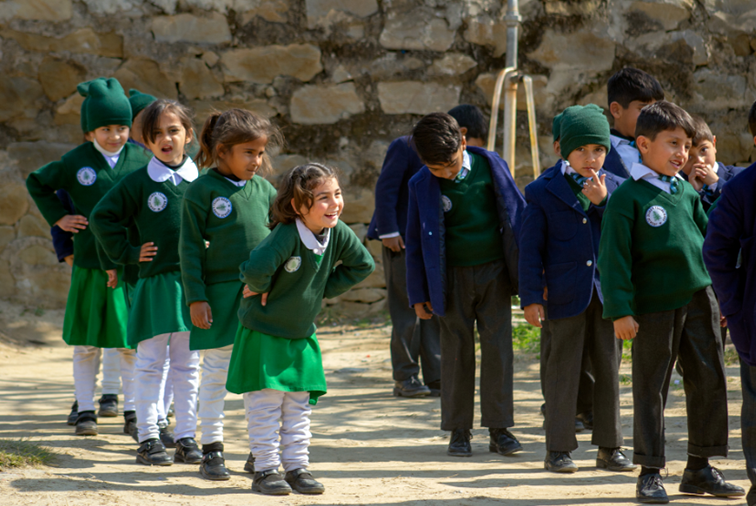
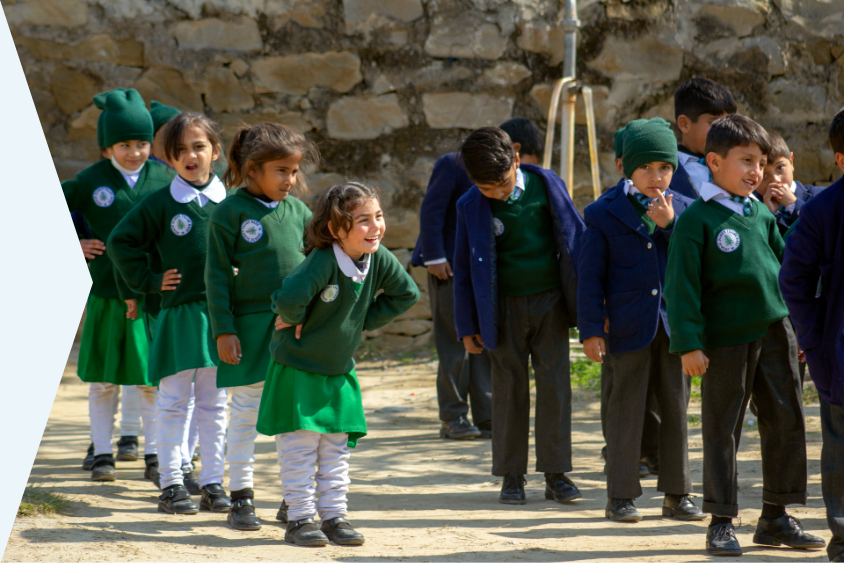
e

diff --git a/src/components/GetInvolved/Slide1/GetInvolvedOne.js b/src/components/GetInvolved/Slide1/GetInvolvedOne.js
@@ -33,7 +33,6 @@ const GetInvolvedOne = () => {
               </div>
             </div>
             <div className="col-sm-12 col-md-6">
-              <div className="triangleDivGls1"></div>
               <div className="ImageStyleGls1">
                 <img src={ghar} className="img-fluid" />
               </div>

diff --git a/src/components/GetInvolved/Slide1/GetInvolvedOneStyles.css b/src/components/GetInvolved/Slide1/GetInvolvedOneStyles.css
@@ -19,7 +19,6 @@
 .containerLeftGlsl1 {
   width: 100%;
   height: auto;
-  padding: 4%;
 }
 .title {
   color: #da636a;
